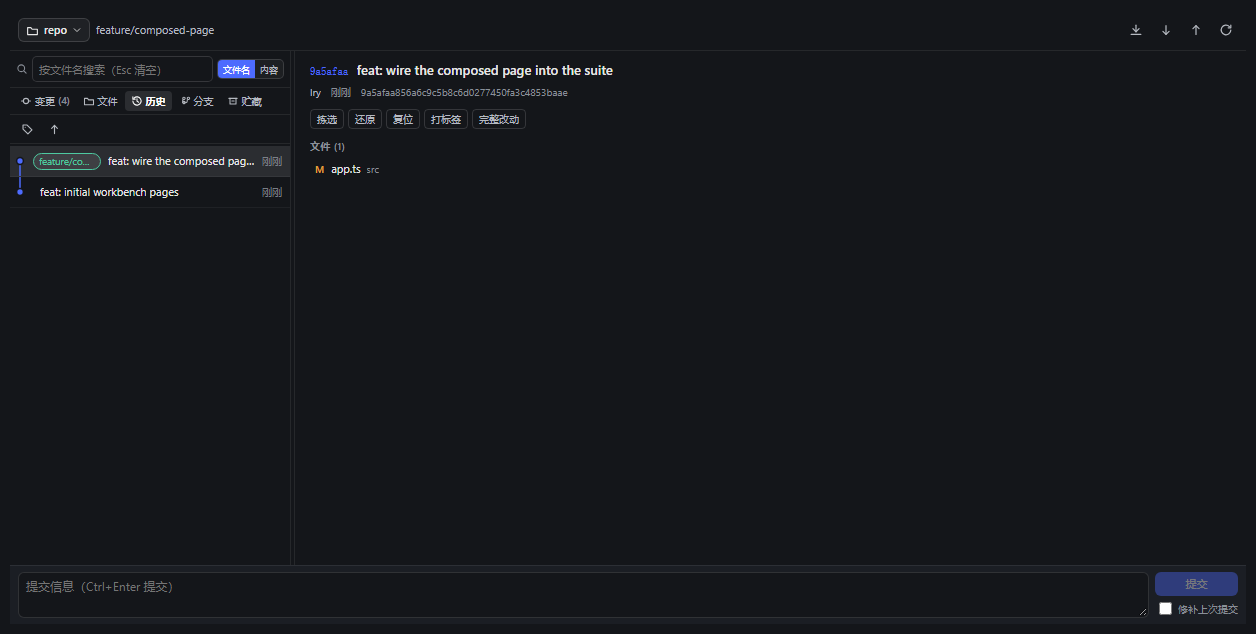
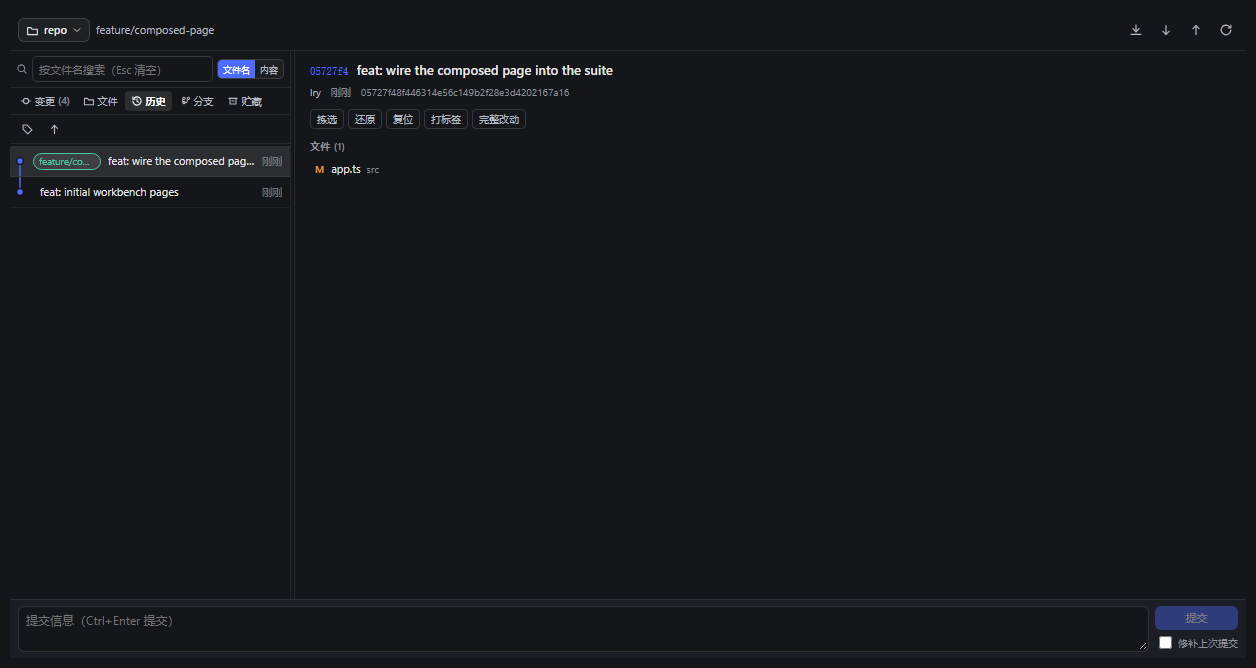
simplify(source-control): the commit message just scrolls with the detail
The fold button and its fixed-height block are gone. The whole detail view scrolls
as one column, so a long message moves with the mouse wheel like everything else
instead of reserving a slab of the pane. The file list is no longer its own scroll
area for the same reason - one scroll per pane.

diff --git a/packages/source-control/src/client.js b/packages/source-control/src/client.js
@@ -247,8 +247,6 @@ const NARROW_PANE_W = 225
       'commit.showPatch': '查看这次提交对该文件的改动',
       'commit.back': '返回提交',
       'commit.whole': '整个提交',
-      'commit.bodyExpand': '展开完整信息',
-      'commit.bodyCollapse': '收起信息',
       'commit.wholeBtn': '完整改动',
       'commit.wholeHint': '把这次提交涉及的所有文件合成一个 patch 查看',
       'diff.modeUnified': '合并查看',
@@ -1549,23 +1547,18 @@ const NARROW_PANE_W = 225
    rows long. Without flex:none the message body was the only shrinkable item, so it
    collapsed to a sliver of clipped glyphs — the "提交信息显示异常" report. Every block
    keeps its natural height; only the file list scrolls. */
-.scw-commitDetail{display:flex;flex-direction:column;gap:6px;padding:10px 12px;overflow:hidden;height:100%;min-height:0}
+.scw-commitDetail{display:flex;flex-direction:column;gap:6px;padding:10px 12px;overflow:auto;height:100%;min-height:0}
 .scw-commitDetail > *{flex:none}
 .scw-commitHead{display:flex;align-items:baseline;gap:8px;flex-wrap:wrap}
 .scw-commitHash{flex:none;font-family:var(--dsw-font-markdown-code-block,ui-monospace,monospace);font-size:11px;color:var(--dsw-alias-brand-primary,#4d6bfe)}
 .scw-commitSubject.is-large{font-size:13px;font-weight:600}
 .scw-commitInfo{display:flex;gap:10px;flex-wrap:wrap;font-size:10px;color:var(--dsw-alias-label-secondary,#b6bac1)}
 .scw-dim{color:var(--dsw-alias-label-tertiary,#8a8f98)}
-.scw-commitBodyWrap{flex:none;display:flex;flex-direction:column;align-items:flex-start;gap:4px;min-height:0}
-  .scw-commitBodyWrap .scw-commitBody{max-height:calc(1.5em * 3);overflow:hidden}
-  .scw-commitBodyWrap.is-open .scw-commitBody{max-height:none;overflow:auto}
-  .scw-commitBodyToggle{align-self:flex-start;height:20px;padding:0 8px;border:1px solid var(--dsw-alias-border-l2,rgba(255,255,255,.14));border-radius:5px;background:transparent;color:var(--dsw-alias-label-secondary,#b6bac1);font-size:10.5px;cursor:pointer}
-  .scw-commitBodyToggle:hover{background:var(--dsw-alias-interactive-bg-hover,rgba(255,255,255,.08))}
   .scw-commitBody{flex:none;margin:2px 0;padding:8px;border-radius:6px;background:var(--dsw-alias-bg-layer-2,rgba(255,255,255,.04));font-family:var(--dsw-font-markdown-code-block,ui-monospace,monospace);font-size:11px;line-height:1.5;white-space:pre-wrap;word-break:break-word;max-height:180px;overflow:auto}
 .scw-commitFilesLabel{font-size:10px;font-weight:600;color:var(--dsw-alias-label-tertiary,#8a8f98);text-transform:uppercase;letter-spacing:.03em;margin-top:4px}
 /* The ONLY scrolling region: the list can be thousands of rows, and giving it the
    remaining height keeps the message and the header pinned above it. */
-.scw-commitFiles{flex:1 1 auto;min-height:0;overflow:auto;display:flex;flex-direction:column;gap:1px}
+.scw-commitFiles{flex:none;min-height:0;overflow:visible;display:flex;flex-direction:column;gap:1px}
 .scw-commitFile{display:flex;align-items:center;gap:6px;padding:2px 4px;border-radius:4px;font-size:11px}
 .scw-commitFile[role="button"]{cursor:pointer}
 .scw-commitFile[role="button"]:hover{background:var(--dsw-alias-interactive-bg-hover,rgba(255,255,255,.06))}
@@ -1975,8 +1968,6 @@ function Page(props) {
       const [commitDetail, setCommitDetail] = useState({ status: 'idle', detail: null, error: null })
       /* Which file of the selected commit is being diffed, if any. */
       const [commitFile, setCommitFile] = useState(null)
-      /* 提交详情里的完整信息默认折起：一段长的提交说明能把下面的文件列表整个挤出屏幕。 */
-      const [commitBodyOpen, setCommitBodyOpen] = useState(false)
       /**
        * Selecting a file always ends the "commit patch" view.
        *
@@ -4618,15 +4609,7 @@ function Page(props) {
             }, t('commit.wholeBtn'))),
           detail.body === '' || detail.body === null || detail.body === undefined
             ? null
-            : E('div', { className: 'scw-commitBodyWrap' + (commitBodyOpen === true ? ' is-open' : '') },
-              /* 按钮放在正文上方：折起时正文只露三行，按钮在下面是「先看到被截断的内容才找到按钮」。 */
-              E('button', {
-                type: 'button',
-                className: 'scw-commitBodyToggle',
-                'aria-expanded': commitBodyOpen === true,
-                onClick: () => setCommitBodyOpen((value) => value !== true),
-              }, commitBodyOpen === true ? t('commit.bodyCollapse') : t('commit.bodyExpand')),
-              E('pre', { className: 'scw-commitBody' }, detail.body)),
+            : E('pre', { className: 'scw-commitBody' }, detail.body),
           E('div', { className: 'scw-commitFilesLabel' }, t('commit.files') + ' (' + files.length + ')'),
           E('div', { className: 'scw-commitFiles' },
             files.map((file, index) => E('div', {
@@ -5268,6 +5251,10 @@ function Page(props) {
     return { apply, name: 'dsh-workbay-source-control', __test: TEST_API }
   },
 })
+
+
+
+
 
 
 
